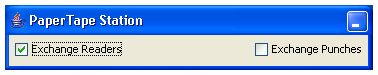
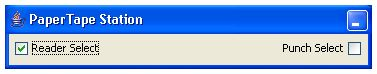
Documentation updates to include plotter

Changed region(s): [[0.0, 0.0541, 0.992, 0.9189], [0.0292, 0.5405, 0.321, 0.7568]]

diff --git a/docs/algol.html b/docs/algol.html
@@ -34,15 +34,15 @@ etc had to be in uppercase only and many of the special symbols used in
 ALGOL were not available.
 There were substituted using using available symbols and letter sequences, 
 for example:<blockquote><table frame="void" rules="none">
-<tr><td><code>GR</code></td><td>&nbsp;&nbsp;for&nbsp;&nbsp;</td><td><code>&gt;</code></td></tr>
-<tr><td><code>DIV</code></td><td>&nbsp;&nbsp;for&nbsp;&nbsp;</td><td><code>&divide;</code></td></tr>
-<tr><td><code>NOTEQ</code></td><td>&nbsp;&nbsp;for&nbsp;&nbsp;</td><td><code>&ne;</code></td></tr>
-<tr><td><code>**</code></td><td>&nbsp;&nbsp;for&nbsp;&nbsp;</td><td><code>&uarr;</code></td>
+<tr><td><code>GR</code></td><td width="15"/><td>for</td><td width="15"/><td><code>&gt;</code></td></tr>
+<tr><td><code>DIV</code></td><td/><td>for</td><td/><td><code>&divide;</code></td></tr>
+<tr><td><code>NOTEQ</code></td><td/><td>for</td><td/><td><code>&ne;</code></td></tr>
+<tr><td><code>**</code></td><td/><td>for</td><td/><td><code>&uarr;</code></td>
 <td>... and several others</td></tr> 
-<tr><td colspan="4">Three particularly important (but slightly odd) substitutions are:</td></tr>
-<tr><td><code>'</code>  (apostrophe)</td><td>&nbsp;&nbsp;for&nbsp;&nbsp;</td><td><code>;</code>  (semicolon)</td></tr>
-<tr><td><code>&pound;</code>  (GB pound sign)</td><td>&nbsp;&nbsp;for&nbsp;&nbsp;</td><td><code>&lsquo;</code>  (open string quote)</td></tr>
-<tr><td><code>?</code>  (question mark)</td><td>&nbsp;&nbsp;for&nbsp;&nbsp;</td><td><code>&rsquo;</code>  (close string quote)</td></tr>
+<tr><td colspan="6">Three particularly important (but slightly odd) substitutions are:</td></tr>
+<tr><td><code>'</code>  (apostrophe)</td><td/><td>for</td><td/><td><code>;</code>  (semicolon)</td></tr>
+<tr><td><code>&pound;</code>  (GB pound sign)</td><td/><td>for</td><td/><td><code>&lsquo;</code>  (open string quote)</td></tr>
+<tr><td><code>?</code>  (question mark)</td><td/><td>for</td><td/><td><code>&rsquo;</code>  (close string quote)</td></tr>
 </table></blockquote></li>
 <li>All ALGOL programs must start with a title followed by an apostrophe.</li>
 <li>The final END keyword must be followed by an apostrophe.</li>
@@ -122,6 +122,13 @@ already released press it down.)</li>
 <p>At this point the system is ready to compile a program.
 A real 803 would now be producing a particular warbling noise from its
 loudspeaker!</p>
+<h3>Using a Preloaded Machine Image</h3>
+<p>As an alternative to loading the two compiler tapes each time they are 
+required it is possible to start the simulator using a <i>machine definition</i>
+parameter specifying a pre-loaded ALGOL core image.
+A pre-loaded compiler image can be found in <code>samples/machines/algol.803</code>.</p>
+<p>If the pre-loaded image is used you will need to execute a <b>40 7</b> instruction
+to begin compiling a new program.
 <h3>Compiling and Running a Program</h3>
 <p>When the compiler has been loaded it is ready to compile and run programs.</p>
 <ol>
@@ -254,6 +261,32 @@ algorithm was invented by
 <a href="http://en.wikipedia.org/wiki/C._A._R._Hoare">Tony Hoare</a>
 and it was the same Tony Hoare who was responsible for the implementation
 of the Elliott 803 ALGOL compiler.</p>
+<h3 id="plot">Sine Wave Plot</h3>
+<table frame="box" rules="all" border="1" cellpadding="4">
+<tr><td><b>Source Code</b></td>
+<td><a href="../samples/algol/plot.algol"><samp>samples/algol/plot.algol</samp></a></td></tr>
+</table>
+<p>This program demonstrates a simple use of the graph plotter to draw
+an approximate sine-wave.
+The mechanism used to draw lines on the plotter is deliberately done in
+a very simple manner, but it seems perfectly adequate for this application.</p>
+<p>Note that <code>ELLIOTT()</code> statements are used to insert specific
+machine code instructions to drive the plotter.
+The plotter had paper that was 11 inches wide and a pen that could be 
+moved in steps of 1/100 inch in any of 8 directions using special machine
+instructions:</p>
+<blockquote><table frame="void" rules="none" cellpadding="1">
+<tr><td><code>72 7184</code></td><td width="15"/><td>Raise the pen</td></tr>
+<tr><td><code>72 7200</code></td><td/><td>Lower the pen</td></tr>
+<tr><td><code>72 7169</code></td><td/><td>Move one step EAST</td></tr>
+<tr><td><code>72 7170</code></td><td/><td>Move one step WEST</td></tr>
+<tr><td><code>72 7172</code></td><td/><td>Move one step NORTH</td></tr>
+<tr><td><code>72 7176</code></td><td/><td>Move one step SOUTH</td></tr>
+<tr><td><code>72 7173</code></td><td/><td>Move one step NORTH-EAST</td></tr>
+<tr><td><code>72 7174</code></td><td/><td>Move one step NORTH-WEST</td></tr>
+<tr><td><code>72 7177</code></td><td/><td>Move one step SOUTH-EAST</td></tr>
+<tr><td><code>72 7178</code></td><td/><td>Move one step SOUTH-WEST</td></tr>
+</table></blockquote> 
 <hr>
 <h2 id="contrib">Contributed Programs</h2>
 <p>These are some rather more complex example ALGOL programs that have been 
@@ -273,7 +306,7 @@ The value to be calculated should be provided on a tape placed into reader 2.</p
 <p>This will calculate the value of PI to many decimal places (e.g. 1000).
 The number of places required should be provided on a tape placed into reader 2.</p>
 <br><table border="1" frame="above" rules="none" width="100%">
-<tr><td align="left">Tim Baldwin<br>July 2010
+<tr><td align="left">Tim Baldwin<br>August 2010
 <br><a href="mailto:tjb803@tinymail.co.uk">tjb803@tinymail.co.uk</a></td>
 <td align="right">Return to <a href="index.html">index</a>
 <br><br>&copy; Tim Baldwin 2009,2010</td></tr>

diff --git a/docs/operation.html b/docs/operation.html
@@ -19,6 +19,7 @@
 <li><a href="#perf">Performance Note</a></li>
 </ul>
 <li><a href="#optele">The Output Teletype</a></li>
+<li><a href="#opplot">The Graph Plotter</a></li>
 <li><a href="#optape">The Paper Tape Readers and Punches</a></li>
 <ul>
 <li><a href="#oppts">The Paper Tape Station</a></li>
@@ -121,6 +122,7 @@ This will usually flicker on and off as programs are loaded or run.</li>
 <br clear="right">
 <h3 id="opcpu">The CPU and Core Store</h3>
 <img src="image/opcpu.jpg" alt="CPU" align="left"/>
+<img src="image/opcore.jpg" alt="Core Store" align="right"/>
 <p>The CPU window shows the values of some of the important internal registers as
 execution proceeds.
 This includes the currently executing instruction and the contents of the
@@ -141,20 +143,19 @@ This can be formatted and displayed using the
 </td></tr>
 </table>
 <br clear="left">
-<img src="image/opcore.jpg" alt="Core Store" align="left"/>
 <p>The core store window shows a view of the 8K words of store.
 It is intended to give a rough idea of where in store work is taking place.</p>
 <p>The window shows 128 lines of 64 small blocks, each block representing a single
 word of store.
 The block will be white if the word of store contains zero, otherwise it will
 alternate between light and dark grey whenever a value is written to the
-storage location.</p>
-<p>The core store is an output only window.</p>
-<h4 id="perf">Performance Note</h4>
+storage location.
+The core store is an output only window.</p>
+<h4 id="perf">Important Performance Note</h4>
 <p>The frequent updates to the CPU and Core Store windows that take place as 
 execution proceeds considerably slow down the speed of the emulation.  
 If you want processing to run at a much faster speed one or both of these
-windows should be minimized.</p>
+windows should be minimized.
 <br clear="left">
 <h3 id="optele">The Output Teletype</h3>
 <img src="image/optele.jpg" alt="Output Teletype" align="left"/>
@@ -166,7 +167,17 @@ New output will be appended to the end of any existing log file.
 The log file will be closed if the <i>Clear</i> button is pressed and this
 will also clear any current teletype output.</p>
 <p>When selecting a log file you will need to choose an appropriate
-<a href="#tmode">tape format</a> for the resulting log file.</p>
+<a href="#tmode">tape format</a> for the resulting log file.
+<br clear="left">
+<h3 id="opplot">The Graph Plotter</h3>
+<img src="image/opplot.jpg" alt="Graph Plotter" align="left"/>
+<p>The graph plotter displays any plotter output generated.
+The output is scaled so that the current width of the plotter window 
+represents the full width of a real Calcomp plotter, that is 11 inches.
+<p>Pressing the <i>Clear</i> button will clear the plotter output and
+reset the pen to the left hand edge.
+Take care pressing <i>Clear</i> as the image cannot be recovered without
+re-running the program that generated it. 
 <br clear="left">
 <h3 id="optape">The Paper Tape Readers and Punches</h3>
 <img src="image/oprdr.jpg" alt="Tape Reader" align="left"/>
@@ -192,10 +203,10 @@ console is pressed.</li>
 </ul>
 <h4 id="oppts">The Paper Tape Station</h4>
 <img src="image/oppts.jpg" alt="Tape Reader" align="left"/>
-<p>The paper tape station provides additional control over the tape readers and
-punches allowing the readers amd/or punches to be exchanged.  
-When exchanged the CPU will see Reader 1 (or Punch 1) as Reader 2 (or Punch 2) 
-and <i>vice-versa</i>.</p>
+<p>The paper tape station provides additional control over the tape
+readers and punches allowing the readers amd/or punches to be exchanged.
+When the appropriate option is selected the CPU will see Reader 1
+(or Punch 1) as Reader 2 (or Punch 2) and <i>vice-versa</i>.</p>
 <br clear="left">
 <h4 id="tmode">Tape Formats</h4>
 <p>When reading or writing files using the tape readers and tape punches you need
@@ -328,7 +339,8 @@ This will be ignored for a self-triggering program tape.</dd>
 <dt><code>-punch1 <i>outputtape</i></code></dt><dd>The output tape file for punch 1</dd>
 <dt><code>-punch2 <i>outputtape</i></code></dt><dd>The output tape file for punch 2</dd>
 <dt><code>-teletype <i>outputfile</i></code></dt><dd>The output file for teletype, defaults to standard out</dd>
-<dt><code>-wordgen <i>&quot;instruction&quot;</i></code></dt><dd>The value to set on the word gnerator</dd>
+<dt><code>-wordgen <i>&quot;instruction&quot;</i></code></dt><dd>The value to set on the word 
+generator, formatted as an instruction e.g. "70 1 : 00 1".</dd>
 <dt><code>-press <i>keynumber</i></code></dt><dd>A key to press if the system waits for keyboard input.
 The top-left key (the Function 1 &quot;40&quot; or sign bit) is keynumber 1, the bottom right key 
 (the Address 2 &quot;1&quot; bit) is keynumber 39.  
@@ -345,7 +357,7 @@ command line session.</p>
 <code>java elliott803.Run -ascii tapes/samples/charset.tape</code>
 </pre></blockquote>
 <br/><table border="1" frame="above" rules="none" width="100%">
-<tr><td align="left">Tim Baldwin<br>July 2010
+<tr><td align="left">Tim Baldwin<br>August 2010
 <br><a href="mailto:tjb803@tinymail.co.uk">tjb803@tinymail.co.uk</a></td>
 <td align="right">Return to <a href="index.html">index</a>
 <br><br>&copy; Tim Baldwin 2009,2010</td></tr>

diff --git a/docs/quickstart.html b/docs/quickstart.html
@@ -21,6 +21,18 @@ subdirectory on your machine.
 Make sure you have Java 5 (or later) installed and working - try typing the 
 command &quot;<kbd>java -version</kbd>&quot; at a terminal or command prompt 
 if you are not sure.</p>
+<p>After unzipping the runtime package you will find these files and directories:</p>
+<blockquote><table frame="void" rules="none" cellpadding="0">
+<tr><td><code>elliott803-n.n.n.jar</code></td><td/><td>The program JAR file</td></tr>
+<tr><td><code>readme.txt</code></td><td width="15"/><td>Latest information</td></tr>
+<tr><td><code>license.txt</code></td><td/><td>The BSD license file</td></tr>
+<tr><td><code>docs/</code></td><td/><td>A copy of the lastest documentation</td></tr>
+<tr><td><code>icons/</code></td><td/><td>Some icons that can be associated with the 
+program if required</td></tr>
+<tr><td><code>tapes/</code></td><td/><td>System tapes and ready to run sample 
+programs</td></tr>
+<tr><td><code>samples/</code></td><td/><td>Sample program source code</td></tr>
+</table></blockquote>
 <hr>
 <h2>Start Up</h2>
 To start the simulator enter the following command at a terminal or command
@@ -41,7 +53,8 @@ workings of the CPU and Storage</b></td>
 </tr>
 <tr><td><br><br><br></td></tr>
 <tr>
-<td valign="middle" width="100"><b>Bottom left is the teletype output</b></td>
+<td valign="middle" width="100"><b>Bottom left is the teletype output and 
+graph plotter output</b></td>
 <td align="right" valign="middle" width="100"><b>Bottom right are the paper tape 
 readers and punches</b></td>
 </tr> 
@@ -105,10 +118,10 @@ rather than a jump to location zero.
 See the <a href="operation.html">Operation Guide</a> or the other 
 <a href="samples.html">Sample Programs</a> for further details.</p>
 <br><table border="1" frame="above" rules="none" width="100%">
-<tr><td align="left">Tim Baldwin<br>December 2009
+<tr><td align="left">Tim Baldwin<br>August 2010
 <br><a href="mailto:tjb803@tinymail.co.uk">tjb803@tinymail.co.uk</a></td>
 <td align="right">Return to <a href="index.html">index</a>
-<br><br>&copy; Tim Baldwin 2009</td></tr>
+<br><br>&copy; Tim Baldwin 2009,2010</td></tr>
 </table>
 </body>
 </html>

diff --git a/docs/index.html b/docs/index.html
@@ -97,7 +97,6 @@ there are minor differences in the least significant decimal places.</li>
 <br>Some bits of the original hardware are currently missing from the simulation.
 It is hoped to add these in the future:
 <ul>
-<li>Graph Plotter</li>
 <li>Film Handlers (although most of the enjoyment of these was in seeing the real
 huge handlers working!).</li>
 </ul></li>

diff --git a/src/elliott803/view/PtsView.java b/src/elliott803/view/PtsView.java
@@ -30,8 +30,8 @@ import elliott803.machine.PaperTapeStation;
 public class PtsView  extends JInternalFrame implements ActionListener {
     private static final long serialVersionUID = 1L;
     
-    public static final String SWAP_READER = "Exchange Readers";
-    public static final String SWAP_PUNCH = "Exchange Punches";
+    public static final String SWAP_READER = "Reader Select";
+    public static final String SWAP_PUNCH = "Punch Select";
     
     PaperTapeStation pts;
     ReaderView[] reader;

diff --git a/src/elliott803/view/component/DisplayPlot.java b/src/elliott803/view/component/DisplayPlot.java
@@ -80,6 +80,7 @@ public class DisplayPlot extends JPanel implements Scrollable, ComponentListener
             minY = Math.min(y - 10, minY);
             maxY = Math.max(y + 10, maxY);
             revalidate();       // Height has changed so re-do scrollbars
+            repaint();
         } else {
             repaint(r1);
         }    
